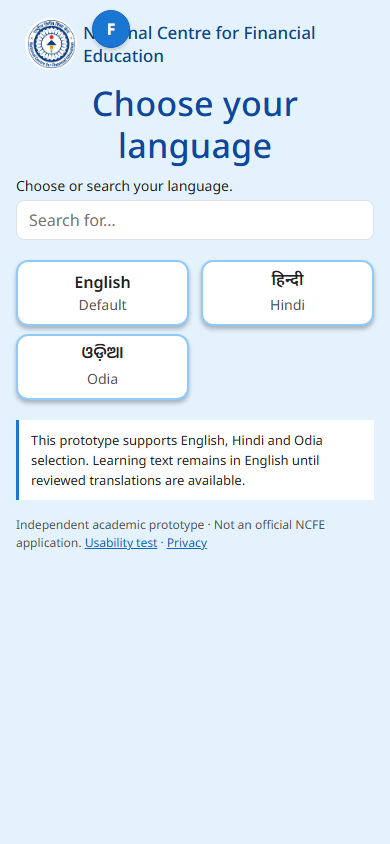
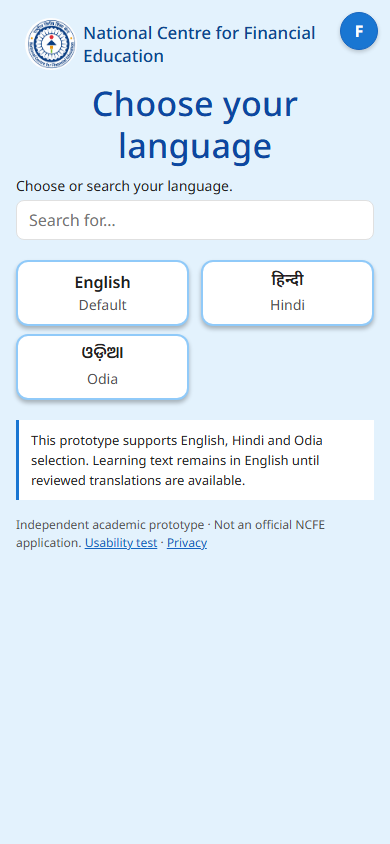
feat:registration-and-support-journeys

Changed region(s): [[0.8615, 0.0, 0.9846, 0.0616], [0.2154, 0.0, 0.3385, 0.0616]]

diff --git a/src/App.tsx b/src/App.tsx
@@ -5,11 +5,13 @@ import { Presentation } from './Presentation';
 import { Dialog, Icon, Logo, Page, PrototypeNote } from './components/UI';
 import { Onboarding } from './features/Onboarding';
 import { Announcements, Home, Textbooks, Topic, TopicsSearch, Videos } from './features/Learning';
+import { Initiatives, Programme, Registration, Review, RegistrationSuccess, LoginDemo } from './features/Initiatives';
+import { FinDisha, Help, Messages, SupportDemo } from './features/Support';
 import s from './styles/App.module.css';
 function Shell(){const app=useApp();const location=useLocation();const navigate=useNavigate();const [menu,setMenu]=useState(false);const [feedback,setFeedback]=useState(false);const main=useRef<HTMLElement>(null);const scroll=useRef<Record<string,number>>({});const onboarding=location.pathname==='/onboarding';
   useEffect(()=>{document.documentElement.lang=app.language;},[app.language]);
   useEffect(()=>{const el=main.current;if(!el)return;el.scrollTop=scroll.current[location.pathname]??0;el.querySelector<HTMLElement>('h1')?.focus({preventScroll:true});return()=>{scroll.current[location.pathname]=el.scrollTop;};},[location.pathname]);
   useEffect(()=>{const receive=(event:MessageEvent)=>{if(event.origin!==window.location.origin||event.source!==window.parent||event.data?.type!=='ncfe-wrapper')return;if(event.data.action==='back'){if((window.history.state?.idx??0)>0)navigate(-1);else navigate('/home');}if(event.data.action==='restart'){app.resetDemo();navigate('/onboarding');}};window.addEventListener('message',receive);return()=>window.removeEventListener('message',receive);},[app,navigate]);
-  return <div className={`${s.shell} ${app.dark?s.dark:''}`} lang="en"><a className={s.skipLink} href="#main-content">Skip to content</a>{!onboarding&&<header className={s.header}><Link to="/home" aria-label="NCFE prototype Home"><Logo/></Link><div className={s.headerActions}><Link className={s.iconButton} to="/learn/search" aria-label="Topics Search"><Icon name="search"/></Link><Link className={s.iconButton} to="/announcements" aria-label="Notifications"><Icon name="notification"/></Link><button className={s.iconButton} onClick={()=>setMenu(true)} aria-label="Open menu"><Icon name="menu"/></button></div></header>}<button className={s.feedbackTrigger} onClick={()=>setFeedback(true)} aria-label="Give Feedback"><span aria-hidden="true">F</span></button><main id="main-content" ref={main} className={s.main} tabIndex={-1}>{!onboarding&&<div>{app.language!=='en'&&<p className={s.notice}>{languages.find(l=>l.id===app.language)?.name} selected. Educational content is shown in English; reviewed translations are not yet available.</p>}</div>}<Routes><Route path="/" element={<Navigate to="/onboarding" replace/>}/><Route path="/onboarding" element={<Onboarding/>}/><Route path="/home" element={<Home/>}/><Route path="/announcements" element={<Announcements/>}/><Route path="/events" element={<Announcements events/>}/><Route path="/learn" element={<Navigate to="/learn/textbooks" replace/>}/><Route path="/learn/textbooks" element={<Textbooks/>}/><Route path="/learn/search" element={<TopicsSearch/>}/><Route path="/learn/videos" element={<Videos/>}/><Route path="/learn/topics/:topicId" element={<Topic/>}/><Route path="/initiatives/*" element={<Page title="Financial literacy programmes"><p>Programme journeys are being connected.</p></Page>}/><Route path="/findisha/*" element={<Page title="FinDisha"><p>Conversation demonstrations are being connected.</p></Page>}/><Route path="/help" element={<Page title="Help centre"><p>Support demonstrations are being connected.</p></Page>}/><Route path="/study" element={<Page title="Usability testing"><p>Guided tasks are being connected. No data is collected.</p></Page>}/><Route path="/privacy" element={<Page title="Prototype privacy" back><p>No live research collection is enabled.</p><PrototypeNote/></Page>}/><Route path="*" element={<Page title="Page not found" back><Link to="/home">Return Home</Link></Page>}/></Routes></main>{!onboarding&&<nav className={s.nav} aria-label="Primary navigation">{[{to:'/home',label:'Home',icon:'home'},{to:'/learn/textbooks',label:'Learn',icon:'book'},{to:'/initiatives',label:'Initiatives',icon:'initiatives'},{to:'/findisha',label:'FinDisha',icon:'chatbot'}].map(item=><NavLink key={item.to} to={item.to} aria-current={location.pathname.startsWith(item.to.split('/').slice(0,2).join('/'))?'page':undefined}><Icon name={item.icon as 'home'|'book'|'initiatives'|'chatbot'}/><span>{item.label}</span></NavLink>)}</nav>}{menu&&<Dialog title="Menu" onClose={()=>setMenu(false)}><div className={s.menu}><Link to="/findisha/messages" onClick={()=>setMenu(false)}>Messages Log</Link><Link to="/onboarding" onClick={()=>setMenu(false)}>Language</Link><button aria-pressed={app.dark} onClick={()=>app.setDark(!app.dark)}>{app.dark?'Light Mode':'Dark Mode'}</button><Link to="/help" onClick={()=>setMenu(false)}>Help</Link><Link to="/study" onClick={()=>setMenu(false)}>Usability testing</Link><Link to="/privacy" onClick={()=>setMenu(false)}>Privacy and withdrawal</Link></div><PrototypeNote/></Dialog>}{feedback&&<Dialog title="Feedback" onClose={()=>setFeedback(false)} feedback><p>The Frame 224 feedback form is being connected.</p></Dialog>}</div>;
+  return <div className={`${s.shell} ${onboarding?s.onboardShell:''} ${app.dark?s.dark:''}`} lang="en"><a className={s.skipLink} href="#main-content">Skip to content</a>{!onboarding&&<header className={s.header}><Link to="/home" aria-label="NCFE prototype Home"><Logo/></Link><div className={s.headerActions}><Link className={s.iconButton} to="/learn/search" aria-label="Topics Search"><Icon name="search"/></Link><Link className={s.iconButton} to="/announcements" aria-label="Notifications"><Icon name="notification"/></Link><button className={s.iconButton} onClick={()=>setMenu(true)} aria-label="Open menu"><Icon name="menu"/></button></div></header>}<button className={s.feedbackTrigger} onClick={()=>setFeedback(true)} aria-label="Give Feedback"><span className={s.mobileLabel} aria-hidden="true">F</span><span className={s.desktopLabel}>Feedback</span></button><main id="main-content" ref={main} className={s.main} tabIndex={-1}>{!onboarding&&<div>{app.language!=='en'&&<p className={s.notice}>{languages.find(l=>l.id===app.language)?.name} selected. Educational content is shown in English; reviewed translations are not yet available.</p>}</div>}<Routes><Route path="/" element={<Navigate to="/onboarding" replace/>}/><Route path="/onboarding" element={<Onboarding/>}/><Route path="/home" element={<Home/>}/><Route path="/announcements" element={<Announcements/>}/><Route path="/events" element={<Announcements events/>}/><Route path="/learn" element={<Navigate to="/learn/textbooks" replace/>}/><Route path="/learn/textbooks" element={<Textbooks/>}/><Route path="/learn/search" element={<TopicsSearch/>}/><Route path="/learn/videos" element={<Videos/>}/><Route path="/learn/topics/:topicId" element={<Topic/>}/><Route path="/initiatives" element={<Initiatives/>}/><Route path="/initiatives/:programmeId" element={<Programme/>}/><Route path="/initiatives/:programmeId/register" element={<Registration/>}/><Route path="/initiatives/:programmeId/review" element={<Review/>}/><Route path="/initiatives/:programmeId/success" element={<RegistrationSuccess/>}/><Route path="/account/login" element={<LoginDemo/>}/><Route path="/findisha" element={<FinDisha/>}/><Route path="/findisha/messages" element={<Messages/>}/><Route path="/help" element={<Help/>}/><Route path="/help/:channel" element={<SupportDemo/>}/><Route path="/study" element={<Page title="Usability testing"><p>Guided tasks are being connected. No data is collected.</p></Page>}/><Route path="/privacy" element={<Page title="Prototype privacy" back><p>No live research collection is enabled.</p><PrototypeNote/></Page>}/><Route path="*" element={<Page title="Page not found" back><Link to="/home">Return Home</Link></Page>}/></Routes></main>{!onboarding&&<nav className={s.nav} aria-label="Primary navigation">{[{to:'/home',label:'Home',icon:'home'},{to:'/learn/textbooks',label:'Learn',icon:'book'},{to:'/initiatives',label:'Initiatives',icon:'initiatives'},{to:'/findisha',label:'FinDisha',icon:'chatbot'}].map(item=><NavLink key={item.to} to={item.to} aria-current={location.pathname.startsWith(item.to.split('/').slice(0,2).join('/'))?'page':undefined}><Icon name={item.icon as 'home'|'book'|'initiatives'|'chatbot'}/><span>{item.label}</span></NavLink>)}</nav>}{menu&&<Dialog title="Menu" onClose={()=>setMenu(false)}><div className={s.menu}><Link to="/findisha/messages" onClick={()=>setMenu(false)}>Messages Log</Link><Link to="/onboarding" onClick={()=>setMenu(false)}>Language</Link><button aria-pressed={app.dark} onClick={()=>app.setDark(!app.dark)}>{app.dark?'Light Mode':'Dark Mode'}</button><Link to="/help" onClick={()=>setMenu(false)}>Help</Link><Link to="/study" onClick={()=>setMenu(false)}>Usability testing</Link><Link to="/privacy" onClick={()=>setMenu(false)}>Privacy and withdrawal</Link></div><PrototypeNote/></Dialog>}{feedback&&<Dialog title="Feedback" onClose={()=>setFeedback(false)} feedback><p>The Frame 224 feedback form is being connected.</p></Dialog>}</div>;
 }
 export default function App(){return <Presentation><StateProvider><Shell/></StateProvider></Presentation>;}

diff --git a/src/styles/App.module.css b/src/styles/App.module.css
@@ -1,3 +1,4 @@
 .shell{height:100dvh;position:relative;background:var(--background);color:var(--text);display:flex;flex-direction:column;overflow:hidden}.dark{--background:#0b0028;--card:#18132c;--text:#fff;--heading:#90caf9;--muted:#c8c8d2;--primary-dark:#90caf9;color-scheme:dark}.header{height:calc(var(--header) + env(safe-area-inset-top));flex:none;background:var(--card);box-shadow:0 3px 3px #0003;display:flex;align-items:center;justify-content:space-between;padding:env(safe-area-inset-top) 20px 0 30px;z-index:3}.headerActions{display:flex;align-items:center;gap:4px}.iconButton{border:0;background:transparent;min-width:44px;min-height:44px;display:inline-flex;align-items:center;justify-content:center;text-decoration:none;padding:8px}.icon{max-width:100%;max-height:32px;object-fit:contain}.logo{width:44px;height:44px;display:block;flex:none;overflow:hidden;mask-size:100% 100%;mask-repeat:no-repeat;position:relative}.logo img{position:absolute;width:180.46%;height:327.78%;max-width:none;left:-39.14%;top:-96.67%}.main{flex:1;overflow:auto;min-height:0;scrollbar-width:thin;scroll-padding-block:12px}.page{padding:14px 20px 24px;max-width:980px;margin:0 auto}.page h1{margin:2px 0 20px}.nav{flex:none;display:grid;grid-template-columns:repeat(4,1fr);height:calc(var(--nav) + env(safe-area-inset-bottom));padding-bottom:env(safe-area-inset-bottom);background:var(--card);border-top:1px solid var(--outline);z-index:3}.nav a{display:flex;flex-direction:column;align-items:center;justify-content:center;gap:3px;color:var(--muted);text-decoration:none;font-size:clamp(11px,3.4vw,14px);line-height:18px;border-top:3px solid transparent;min-width:0;padding:2px}.nav a[aria-current=page]{border-top-color:var(--secondary);color:var(--heading)}.nav .icon{height:26px}.back{border:0;background:transparent;color:var(--heading);padding:6px 0;min-height:44px;font-weight:600}.primary{border:1px solid var(--primary);background:var(--primary);color:#fff;display:inline-flex;align-items:center;justify-content:center;border-radius:10px;min-height:44px;padding:10px 18px;text-decoration:none;font-weight:500}.secondary{border:1px solid var(--secondary);color:var(--primary-dark);background:var(--card);border-radius:8px;min-height:44px;padding:10px 18px}.actions{display:flex;gap:10px;flex-wrap:wrap;margin-top:16px}.actions>*{flex:1}.card{background:var(--card);border:1px solid var(--outline);border-radius:12px;padding:16px;color:var(--text)}.card h2,.card h3{margin:0 0 10px}.card p{margin:6px 0}.grid{display:grid;grid-template-columns:repeat(auto-fit,minmax(min(100%,260px),1fr));gap:14px}.stack{display:grid;gap:14px}.muted{color:var(--muted);font-size:14px}.prototypeNote{font-size:12px;line-height:18px;color:var(--muted);margin:16px 0 6px}.notice{border-left:3px solid var(--primary);background:var(--card);padding:10px 12px;font-size:13px;line-height:20px;margin:12px 0}.studyEntry{display:flex;justify-content:space-between;align-items:center;gap:10px;margin-bottom:12px}.studyEntry a{font-size:13px}.feedbackTrigger{position:absolute;right:16px;top:68px;width:38px;height:38px;border:1px solid var(--primary-dark);border-radius:50%;background:var(--primary);color:#fff;z-index:4;font-weight:700;box-shadow:0 2px 4px #0003}.main:has(.page)>section:first-child{padding-top:16px}.main .page h1{padding-right:35px}.dialog{border:1px solid var(--outline);border-radius:12px;padding:0;background:var(--card);color:var(--text);width:min(358px,calc(100vw - 28px));max-height:calc(100dvh - 32px)}.dialogInner{padding:20px;position:relative;overflow:auto}.dialog h2{margin:10px 28px 10px 0;text-align:center}.dialog p{text-align:center;font-size:14px}.close{position:absolute;right:8px;top:6px;font-size:28px;min-height:44px;min-width:44px;border:0;background:transparent;color:inherit}.feedbackDialog{background:#fff9ee;border:8px solid #ffc334;border-radius:36px;color:#000;width:min(650px,calc(100vw - 20px));max-height:calc(100dvh - 20px);padding:0}.feedbackDialog .dialogInner{padding:28px 24px 24px}.feedbackDialog h2{text-align:left;text-transform:uppercase;font-size:24px;margin:10px 40px 18px 0}.feedbackDialog label,.feedbackDialog legend{font-weight:700}.feedbackDialog input,.feedbackDialog select,.feedbackDialog textarea{background:#fff;color:#212121;border:1.5px solid #212121}.feedbackDialog fieldset{border:0;padding:0;margin:12px 0 20px}.stars{display:flex;gap:10px;justify-content:space-between}.starOption{position:relative;display:flex;flex:1;min-height:44px;align-items:center;justify-content:center}.starOption input{position:absolute;opacity:0;width:100%;height:100%;cursor:pointer;margin:0}.starOption img{width:100%;max-width:75px;pointer-events:none}.starOption:has(input:focus-visible){outline:3px solid var(--secondary);outline-offset:4px}.desktopStage{min-height:100dvh;display:grid;place-items:center;background:#321630;padding:24px}.demoWindow{width:min(760px,100%);border-radius:36px;overflow:hidden;background:#f1e8c8;box-shadow:0 12px 40px #0005}.demoTitle{height:64px;display:flex;align-items:center;justify-content:center;position:relative;background:#1155d0;color:white}.demoTitle h1{color:inherit;font-size:28px;margin:0}.demoTitle button{position:absolute;right:22px;top:8px;background:transparent;border:0;color:#fff;font-size:38px;width:44px;height:44px}.demoBody{display:flex;align-items:flex-start;justify-content:center;gap:16px;padding:26px}.phoneFrame{height:min(780px,calc(100dvh - 170px));min-height:500px;width:calc(min(780px,100dvh - 170px) * .46);min-width:320px;max-width:407px;border:12px solid #27231e;border-radius:50px;box-shadow:0 0 0 3px #928b7b,0 14px 26px #0003;background:#fff;overflow:hidden}.phoneFrame iframe{width:100%;height:100%;border:0;display:block;background:var(--background)}.demoControls{width:140px;padding:12px 0}.demoControls button{width:100%;border:3px solid #1b1811;background:#ffc334;color:#151515;border-radius:30px;min-height:50px;font-size:20px;font-weight:600;margin:0 0 26px}.demoControls p{font-size:12px;line-height:20px;color:#3c3528}.closed{min-height:100dvh;display:flex;flex-direction:column;align-items:center;justify-content:center;gap:16px}.skipLink{position:absolute;top:-100px;left:10px;background:white;padding:10px;z-index:20}.skipLink:focus{top:10px}.menu{display:grid;gap:2px}.menu a,.menu button{padding:12px;border:0;background:transparent;text-align:left;text-decoration:none;border-bottom:1px solid var(--outline);min-height:44px}.menu a{color:var(--text)}
 @media(min-width:768px){.feedbackTrigger{width:auto;border-radius:8px;padding:0 14px;right:22px}.page{padding:20px 28px 28px}.header{padding-right:30px}.nav a{font-size:14px}.main>.page{max-width:1000px}.grid{grid-template-columns:repeat(2,minmax(0,1fr))}}@media(max-width:350px){.page{padding-inline:14px}.header{padding-inline:16px}.feedbackDialog .dialogInner{padding-inline:14px}.feedbackDialog h2{font-size:20px}.stars{gap:6px}}@media(max-height:720px) and (min-width:768px){.phoneFrame{height:560px}.desktopStage{padding:16px}.demoBody{padding:20px}.demoWindow{margin:16px 0}}
 .srOnly{position:absolute!important;width:1px!important;height:1px!important;padding:0!important;margin:-1px!important;overflow:hidden!important;clip-path:inset(50%);white-space:nowrap;border:0}.feedbackTrigger{top:10px;left:92px;right:auto}.shell:has(.onboarding) .feedbackTrigger{top:12px;right:12px;left:auto}.shell:has(.onboarding) .identity{padding-right:42px}.feedbackDialog{border-color:#ffc038}.feedbackDialog .close img{width:24px;height:24px}.header .icon{max-height:28px}.page>h1.srOnly{margin:0}.main>.page:has(>h1.srOnly){padding-top:8px}.main:has(.onboarding) .feedbackTrigger{top:12px}.dark .logo{background:white}.dark input::placeholder{color:#ccc}.feedbackTrigger .desktopLabel{display:none}@media(min-width:768px){.feedbackTrigger{left:100px;right:auto;width:auto}.feedbackTrigger .desktopLabel{display:inline}.feedbackTrigger .mobileLabel{display:none}}
+.onboardShell .feedbackTrigger{top:12px;right:12px;left:auto}

diff --git a/src/features/Initiatives.tsx b/src/features/Initiatives.tsx
@@ -1,0 +1,16 @@
+import { useState } from 'react';
+import { Link, useNavigate, useParams } from 'react-router-dom';
+import programmes from '../content/programmes.json';
+import { fieldsFor, fictionalValues, validateForm } from '../content/forms';
+import { asset } from '../content/design';
+import { ActionLink, Dialog, Page, PrototypeNote } from '../components/UI';
+import { useApp } from '../state';
+import s from '../styles/App.module.css';
+import f from '../styles/Forms.module.css';
+const names:Record<string,string>={mssp:'Money Smart School Programme',fetp:'Financial Education Training Programme',fepa:'Financial Education Programme for Adults',fact:'Financial Awareness and Consumer Training',nflat:'National Financial Literacy Assessment Test',elms:'E-LMS'};
+export function Initiatives(){return <Page title="NCFE Financial Education Initiatives"><p>Financial literacy education teaches individuals how to manage money effectively. It covers essential skills like budgeting, saving, investing, understanding credit, and making informed financial decisions.</p><div className={s.grid}>{['mssp','fetp','fepa','fact','nflat','elms'].map(id=>{const programme=programmes.find(p=>p.id===id)!;return <Link className={f.programmeCard} key={id} to={`/initiatives/${id}`}><img src={asset(programme.node.replace(':','-'),programme.hero)} alt=""/><strong>{id==='elms'?'E-LMS':id.toUpperCase()}</strong><span>{names[id]}</span></Link>;})}</div><PrototypeNote/></Page>;}
+export function Programme(){const {programmeId=''}=useParams();const programme=programmes.find(p=>p.id===programmeId);if(!programme)return <Page title="Programme not found" back><ActionLink to="/initiatives">View programmes</ActionLink></Page>;return <Page title={programmeId==='elms'?'E-LMS':programmeId.toUpperCase()} back><img className={f.hero} src={asset(programme.node.replace(':','-'),programme.hero)} alt={`${names[programmeId]} — original Figma illustration`}/><h2>{names[programmeId]}</h2><div className={f.programmeCopy}>{programme.copy.filter(p=>p!==names[programmeId]&&p!=='Request for programme').map((p,i)=><p key={i}>{p}</p>)}</div><p className={s.notice}>Programme information from the supplied Figma redesign. Registration is a fictional prototype demonstration, not an official application.</p><ActionLink to={`/initiatives/${programmeId}/register`}>{programmeId==='elms'?'Register':'Request for programme'}</ActionLink>{programmeId==='elms'&&<Link className={s.secondary} to="/account/login">Log In demonstration</Link>}<PrototypeNote/></Page>;}
+export function Registration(){const {programmeId=''}=useParams();const app=useApp();const navigate=useNavigate();const [errors,setErrors]=useState<Record<string,string>>({});if(!names[programmeId])return <Page title="Programme not found" back><ActionLink to="/initiatives">View programmes</ActionLink></Page>;const draft=app.drafts[programmeId]??{};const update=(key:string,value:string)=>{app.setDraft(programmeId,{...draft,[key]:value});if(errors[key])setErrors(previous=>{const next={...previous};delete next[key];return next;});};const submit=(e:React.FormEvent)=>{e.preventDefault();const invalid=validateForm(programmeId,draft);setErrors(invalid);const first=Object.keys(invalid)[0];if(first){document.getElementById(`field-${first}`)?.focus();return;}navigate(`/initiatives/${programmeId}/review`);};return <Page title={programmeId==='elms'?'E-LMS':programmeId.toUpperCase()} back><h2>{programmeId==='elms'?'Create your learning account':names[programmeId]}</h2><p className={s.notice}>Use fictional information only. These fields stay in this browser session and are never uploaded. {['fetp','elms'].includes(programmeId)?'':'This additional form is a prototype demonstration.'}</p><button className={s.secondary} onClick={()=>{app.setDraft(programmeId,{...fictionalValues});setErrors({});}}>Use fictional test details</button><form noValidate onSubmit={submit} className={f.form}>{Object.keys(errors).length>0&&<div role="alert" className={f.errorSummary}>Please correct the highlighted fields.</div>}{fieldsFor(programmeId).map(field=><div className={f.field} key={field.key}><label htmlFor={`field-${field.key}`}>{field.label} <span className={f.required} aria-hidden="true">*</span></label><input id={`field-${field.key}`} type={field.type??'text'} value={draft[field.key]??''} onChange={e=>update(field.key,e.target.value)} placeholder={field.label} autoComplete="off" required aria-invalid={!!errors[field.key]} aria-describedby={[field.hint?`hint-${field.key}`:'',errors[field.key]?`error-${field.key}`:''].filter(Boolean).join(' ')||undefined} className={draft[field.key]?f.filled:undefined}/>{field.hint&&<p id={`hint-${field.key}`} className={s.muted}>{field.hint}</p>}{errors[field.key]&&<p className={f.error} id={`error-${field.key}`}>{errors[field.key]}</p>}</div>)}<p className={s.muted}>Fields marked * are required.</p><button className={s.primary} type="submit">{programmeId==='elms'?'Review account':'Review request'}</button></form><PrototypeNote/></Page>;}
+export function Review(){const {programmeId=''}=useParams();const app=useApp();const navigate=useNavigate();const [confirm,setConfirm]=useState(false);const [busy,setBusy]=useState(false);const draft=app.drafts[programmeId]??{};const invalid=validateForm(programmeId,draft);if(!names[programmeId]||Object.keys(invalid).length)return <Page title="Registration review" back><p>Complete the demonstration form before reviewing.</p><ActionLink to={`/initiatives/${names[programmeId]?programmeId:'fetp'}/register`}>Return to registration</ActionLink></Page>;const submit=async()=>{if(busy)return;setBusy(true);await new Promise(resolve=>setTimeout(resolve,250));navigate(`/initiatives/${programmeId}/success`);};return <Page title="Registration" back><h2>Check your details</h2><p>Please check the information you provided.</p><p className={s.notice}>Fictional demonstration only. No registration data will be sent.</p><dl className={f.review}>{fieldsFor(programmeId).filter(field=>field.type!=='password').map(field=><div key={field.key}><dt>{field.label}</dt><dd>{draft[field.key]}</dd></div>)}</dl><div className={s.actions}><button className={s.primary} onClick={()=>setConfirm(true)}>Submit request</button><ActionLink to={`/initiatives/${programmeId}/register`}>Edit details</ActionLink></div>{confirm&&<Dialog title="Submit your registration?" onClose={()=>{if(!busy)setConfirm(false);}}><p>Review your details before submitting.</p><p>Prototype demonstration. Nothing is sent to NCFE.</p><div className={s.actions}><button className={s.primary} disabled={busy} onClick={()=>void submit()}>{busy?'Submitting demonstration…':'Submit'}</button><button className={s.secondary} disabled={busy} onClick={()=>setConfirm(false)}>Cancel</button></div></Dialog>}<PrototypeNote/></Page>;}
+export function RegistrationSuccess(){const {programmeId='fetp'}=useParams();return <Page title="Demonstration completed" back><div className={s.card}><h2>Thank you</h2><p>Your fictional registration journey is complete. No application was submitted to NCFE and no identity information was collected.</p><ActionLink to={`/initiatives/${programmeId}`}>Return to programme</ActionLink></div><PrototypeNote/></Page>;}
+export function LoginDemo(){const [done,setDone]=useState(false);return <Page title="E-LMS Log In" back><p className={s.notice}>No real account or password is needed. This is a demonstration.</p>{done?<div className={s.card}><h2>Demo account opened</h2><ActionLink to="/learn/textbooks">Open learning</ActionLink></div>:<button className={s.primary} onClick={()=>setDone(true)}>Use fictional demo account</button>}</Page>;}

diff --git a/src/features/Support.tsx b/src/features/Support.tsx
@@ -1,0 +1,28 @@
+import { useState } from 'react';
+import { Link, useParams } from 'react-router-dom';
+import { Page, PrototypeNote } from '../components/UI';
+import { asset } from '../content/design';
+import { useApp } from '../state';
+import s from '../styles/App.module.css';
+import c from '../styles/Support.module.css';
+
+const options = [
+  {id:'phone',title:'Phone Support',detail:'Voice support demonstration'},
+  {id:'chat',title:'Live Chat',detail:'Text support · Simulated conversation'},
+  {id:'email',title:'Email Support',detail:'Written support demonstration'},
+  {id:'walk',title:'Walk-in Centre',detail:'In-person support demonstration'},
+];
+const helpTopics = [
+  {title:'E-LMS account',text:'How do I register, log in or reset my password?',to:'/initiatives/elms'},
+  {title:'NCFE programmes',text:'How can a school or institution request a programme?',to:'/initiatives'},
+  {title:'Using FinDisha',text:'How do I ask a question or review previous messages?',to:'/findisha'},
+  {title:'Language & accessibility',text:'How can I change the app language?',to:'/onboarding'},
+  {title:'Safety and privacy',text:'What information does this prototype collect?',to:'/privacy'},
+];
+export function Help(){return <Page title="Help centre" back><p className={s.muted}>How would you like to get help?</p><h2 className={c.caption}>POPULAR HELP TOPICS</h2><div className={s.stack}><div className={c.helpCard}><h3>Getting started</h3><Link to="/learn/textbooks">Where can I find lessons and videos?</Link><div>{options.map(option=><Link key={option.id} to={`/help/${option.id}`} className={c.supportRow}><span className={c.iconTile}><img src={asset('support',option.id)} alt=""/></span><span><strong>{option.title}</strong><small>{option.detail}</small></span><img className={c.chevron} src={asset('21-5218','imgChevron')} alt=""/></Link>)}</div><Link to="/help/email">File a complaint about this portal · Demonstration</Link></div>{helpTopics.map(topic=><Link key={topic.title} className={c.helpCard} to={topic.to}><strong>{topic.title}</strong><span>{topic.text}</span><small>Tap to view guidance ›</small></Link>)}<h2>Still need help?</h2><Link className={c.helpCard} to="/findisha"><strong>Ask FinDisha</strong><span>Start a simulated conversation about your question.</span><small>Open chat ›</small></Link></div><PrototypeNote/></Page>;}
+
+export function FinDisha(){const app=useApp();const [text,setText]=useState('');const send=(event:React.FormEvent)=>{event.preventDefault();if(!text.trim())return;app.setMessages([...app.messages,{id:crypto.randomUUID(),from:'user',text:text.trim()},{id:crypto.randomUUID(),from:'demo',text:'Simulated response: this prototype can help you find learning pages and programme demonstrations. No official financial advice is provided.'}]);setText('');};return <Page title="Ask FinDisha"><div className={c.greeting}><p>Hi there!<br/>How can we help?</p><span className={c.hand} aria-hidden="true"><img src={asset('200-14368','imgVector')} alt=""/><img style={{maskImage:`url(${asset('200-14368','imgGroup')})`}} src={asset('200-14368','imgGroup1')} alt=""/><img style={{maskImage:`url(${asset('200-14368','imgGroup')})`}} src={asset('200-14368','imgGroup2')} alt=""/></span></div><div className={c.bubble}><strong>FinDisha · Prototype assistant</strong><p>Hello there! This is a simulated Financial Literacy Assistant demonstration.</p></div><p className={s.notice}>Simulated responses. No official financial advice. Messages remain in memory and are not saved to Firebase. Use fictional information.</p><Link className={c.helpCard} to="/help"><strong>Help & support</strong><span>Find a non-voice support option ›</span></Link><p className={s.muted}>Ask it out</p><div role="log" aria-label="Simulated conversation" aria-live="polite" className={c.messages}>{app.messages.map(message=><div className={`${c.bubble} ${message.from==='user'?c.user:''}`} key={message.id}><strong>{message.from==='user'?'You':'FinDisha · Simulated'}</strong><p>{message.text}</p></div>)}</div><form onSubmit={send} className={c.composer}><label className={s.srOnly} htmlFor="chat-message">Type your message</label><input id="chat-message" value={text} maxLength={500} onChange={event=>setText(event.target.value)} placeholder="Type your message" autoComplete="off"/><button type="submit" disabled={!text.trim()} aria-label="Send message"><img src={asset('200-14368','imgIcon')} alt=""/></button></form><Link to="/findisha/messages">Messages Log</Link><PrototypeNote/></Page>;}
+
+export function Messages(){const app=useApp();return <Page title="Messages Log" back>{app.messages.length?<div className={s.stack}>{app.messages.map(message=><div className={c.bubble} key={message.id}><strong>{message.from==='user'?'You':'FinDisha · Simulated'}</strong><p>{message.text}</p></div>)}</div>:<div className={c.helpCard}><h2>No conversations yet</h2><p>Conversation examples will appear here during this browser session.</p></div>}<Link className={s.primary} to="/findisha">Ask FinDisha</Link><PrototypeNote/></Page>;}
+
+export function SupportDemo(){const {channel='chat'}=useParams();const option=options.find(item=>item.id===channel);const [message,setMessage]=useState('');const [sent,setSent]=useState(false);if(!option)return <Page title="Support option not found" back><Link to="/help">Help centre</Link></Page>;return <Page title={option.title} back><p className={s.notice}>Prototype demonstration. This does not contact NCFE or send messages to a support team.</p>{channel==='phone'||channel==='walk'?<div className={c.helpCard}><h2>{channel==='phone'?'Helpline placeholder':'Support centre placeholder'}</h2><p>Contact details and service availability are not verified in this independent prototype.</p><Link to="/help/chat">Use non-voice text support</Link></div>:<form onSubmit={event=>{event.preventDefault();setSent(true);}} className={c.supportForm}><label htmlFor="support-text">Your fictional question</label><textarea id="support-text" value={message} maxLength={500} onChange={event=>{setMessage(event.target.value);setSent(false);}} placeholder="Example: Where can I find a lesson?"/><button className={s.primary} disabled={!message.trim()} type="submit">{channel==='email'?'Send email demonstration':'Send message demonstration'}</button>{sent&&<div role="status" className={c.bubble}><strong>Simulated response</strong><p>Your demonstration message was received on this screen. Nothing was sent or saved. <Link to="/learn/textbooks">Open learning pages</Link>.</p></div>}</form>}<PrototypeNote/></Page>;}

diff --git a/tests/journeys.spec.ts b/tests/journeys.spec.ts
@@ -1,0 +1,49 @@
+import {test,expect} from '@playwright/test';
+test.beforeEach(async({page})=>{await page.setViewportSize({width:390,height:844});});
+for(const programme of ['fetp','elms']){
+ test(`${programme}: validation, preservation, review cancellation and submission`,async({page})=>{
+  await page.goto(`?view=app#/initiatives/${programme}/register`);
+  await page.getByRole('button',{name:programme==='elms'?'Review account':'Review request',exact:true}).click();
+  await expect(page.getByRole('alert')).toBeVisible();
+  await expect(page.locator('input[aria-invalid=true]').first()).toBeFocused();
+  await page.getByRole('button',{name:'Use fictional test details'}).click();
+  const before=await page.locator('input').first().inputValue();
+  await page.getByRole('button',{name:programme==='elms'?'Review account':'Review request',exact:true}).click();
+  await page.getByRole('link',{name:'Edit details'}).click();
+  await expect(page.locator('input').first()).toHaveValue(before);
+  await page.getByRole('button',{name:programme==='elms'?'Review account':'Review request',exact:true}).click();
+  await page.getByRole('button',{name:'Submit request'}).click();
+  await page.getByRole('button',{name:'Cancel',exact:true}).click();
+  await expect(page.getByRole('dialog')).not.toBeVisible();
+  await page.getByRole('button',{name:'Submit request'}).click();
+  await page.getByRole('button',{name:'Submit',exact:true}).click();
+  await expect(page.getByRole('heading',{name:'Demonstration completed'})).toBeVisible();
+ });
+}
+test('all programmes and non-voice support have working destinations',async({page})=>{
+ for(const id of ['mssp','fetp','fepa','fact','nflat','elms']){
+  await page.goto('?view=app#/initiatives');
+  await page.locator(`a[href="#/initiatives/${id}"]`).click();
+  await expect(page.getByRole('heading',{name:id==='elms'?'E-LMS':id.toUpperCase(),exact:true,level:1})).toBeVisible();
+ }
+ await page.goto('?view=app#/findisha');
+ await page.getByRole('link',{name:/Help & support/}).click();
+ await page.getByRole('link',{name:/Live Chat/}).click();
+ await page.getByRole('textbox',{name:'Your fictional question'}).fill('Where are the lessons?');
+ await page.getByRole('button',{name:'Send message demonstration'}).click();
+ await expect(page.getByRole('status')).toContainText('Nothing was sent or saved');
+});
+test('FinDisha conversation persists across navigation',async({page})=>{
+ await page.goto('?view=app#/findisha');
+ await page.getByRole('textbox',{name:'Type your message'}).fill('Bank accounts');
+ await page.getByRole('button',{name:'Send message',exact:true}).click();
+ await expect(page.getByRole('log')).toContainText('Simulated response');
+ await page.getByRole('link',{name:'Messages Log',exact:true}).click();
+ await expect(page.getByText('Bank accounts',{exact:true})).toBeVisible();
+ await page.getByRole('button',{name:'Go back'}).click();
+ await expect(page.getByRole('log')).toContainText('Bank accounts');
+});
+test('capture registration and help evidence',async({page})=>{
+ await page.goto('?view=app#/initiatives/fetp/register');await page.screenshot({path:'docs/screenshots/phase-4-fetp.png'});
+ await page.goto('?view=app#/help');await page.screenshot({path:'docs/screenshots/phase-5-help.png'});
+});

diff --git a/src/styles/Forms.module.css b/src/styles/Forms.module.css
@@ -1,0 +1,1 @@
+.form{display:grid;gap:12px;margin:18px 0}.field label{display:block;font-size:16px;font-weight:500;line-height:22px;margin-bottom:6px}.required{color:var(--error)}.field input,.field select,.field textarea{background:var(--card);color:var(--text);border:1px solid #aac2dd;border-radius:9px;width:100%;min-height:47px;padding:12px;font-size:14px}.field input::placeholder{color:#65778b}.field input[aria-invalid=true],.field textarea[aria-invalid=true],.field select[aria-invalid=true]{border:2px solid var(--error)}.field input:focus{border-color:var(--primary)}.field .filled{border-color:#7394ba}.field p{margin:6px 0 0;font-size:14px;line-height:22px}.error,.errorSummary{color:var(--error);font-size:14px}.errorSummary{border-left:3px solid var(--error);padding:10px;background:var(--card)}.form>button[type=submit]{border-radius:24px;width:100%}.review{margin:18px 0;padding:16px;border:1px solid var(--outline);border-radius:12px;background:var(--card)}.review>div{padding:8px 0;border-bottom:1px solid var(--outline)}.review>div:last-child{border:0}.review dt{font-size:14px;color:var(--muted)}.review dd{margin:4px 0;overflow-wrap:anywhere}.hero{width:100%;max-height:230px;object-fit:contain;border-radius:8px;background:var(--card)}.programmeCopy{font-size:16px;line-height:24px}.programmeCard{border:1px solid var(--outline);background:var(--card);border-radius:12px;padding:14px;text-decoration:none;display:flex;flex-direction:column;align-items:center;text-align:center;gap:8px;color:var(--heading);box-shadow:0 2px 3px #0002}.programmeCard img{width:100%;height:120px;object-fit:contain}.programmeCard strong{font-size:24px}.programmeCard span{font-size:14px}.field textarea{resize:vertical;min-height:130px}.field select{appearance:auto}.difficulty{display:flex;gap:8px;flex-wrap:wrap}.difficulty label{display:flex;gap:4px;align-items:center;min-height:44px}.taskPanel{border-top:2px solid var(--primary);padding:12px 16px;background:var(--card);flex:none;max-height:45dvh;overflow:auto}.taskPanel h2{margin:0 0 8px;font-size:16px}.taskPanel p{font-size:14px;margin:6px 0}.taskPanel .actions{margin-top:8px}.taskPanel button{font-size:13px}.status{padding:12px;border:1px solid var(--outline);border-radius:8px;background:var(--card);font-size:14px}

diff --git a/src/components/UI.tsx b/src/components/UI.tsx
@@ -1,4 +1,4 @@
-import { useEffect, useRef, type ReactNode } from 'react';
+import { useEffect, useId, useRef, type ReactNode } from 'react';
 import { Link, useNavigate } from 'react-router-dom';
 import { asset, icons, type IconName } from '../content/design';
 import s from '../styles/App.module.css';
@@ -8,9 +8,10 @@ export function Back({fallback='/home'}:{fallback?:string}) {const navigate=useN
 export function Page({title,children,back=false}:{title:string;children:ReactNode;back?:boolean}){return <section className={s.page}>{back&&<Back/>}<h1 className={title==='Home'?s.srOnly:undefined} tabIndex={-1}>{title}</h1>{children}</section>;}
 export function ActionLink({to,children}:{to:string;children:ReactNode}){return <Link className={s.primary} to={to}>{children}</Link>;}
 export function Dialog({title,children,onClose,feedback=false}:{title:string;children:ReactNode;onClose:()=>void;feedback?:boolean}){
+  const titleId=useId();
   const ref=useRef<HTMLDialogElement>(null);
   const closeRef=useRef(onClose);closeRef.current=onClose;
   useEffect(()=>{const dialog=ref.current;if(!dialog)return;const previous=document.activeElement as HTMLElement|null;dialog.showModal();return()=>{dialog.close();previous?.focus();};},[]);
-  return <dialog ref={ref} className={feedback?s.feedbackDialog:s.dialog} aria-labelledby="dialog-title" onCancel={event=>{event.preventDefault();closeRef.current();}}><div className={s.dialogInner}><button className={s.close} aria-label="Close dialog" onClick={onClose}>×</button><h2 id="dialog-title">{title}</h2>{children}</div></dialog>;
+  return <dialog ref={ref} className={feedback?s.feedbackDialog:s.dialog} aria-labelledby={titleId} onCancel={event=>{event.preventDefault();closeRef.current();}}><div className={s.dialogInner}><button className={s.close} aria-label="Close dialog" onClick={onClose}>{feedback?<img src={asset('295-16869','imgVector')} alt=""/>:'×'}</button><h2 id={titleId}>{title}</h2>{children}</div></dialog>;
 }
 export function PrototypeNote(){return <p className={s.prototypeNote}>Independent academic prototype · Not an official NCFE application. <Link to="/study">Usability test</Link> · <Link to="/privacy">Privacy</Link></p>;}

diff --git a/src/content/forms.ts b/src/content/forms.ts
@@ -1,0 +1,9 @@
+export type Field = {key:string;label:string;type?:'email'|'tel'|'password';hint?:string};
+export const formFields:Record<string,Field[]>={
+  fetp:[{key:'name',label:"Teacher's full name"},{key:'school',label:'School / Institution'},{key:'role',label:'Teaching role'},{key:'location',label:'State and district'},{key:'email',label:'Work email',type:'email'},{key:'phone',label:'Contact number',type:'tel'}],
+  elms:[{key:'firstName',label:'First name'},{key:'surname',label:'Surname'},{key:'phone',label:'Phone number',type:'tel'},{key:'location',label:'State / Union Territory'},{key:'username',label:'Username'},{key:'email',label:'Email address',type:'email'},{key:'password',label:'Password',type:'password',hint:'Password: 8+ characters, mixed case, number and symbol.'}]
+};
+export const otherFields:Field[]=[{key:'name',label:'Fictional contact name'},{key:'school',label:'Fictional institution'},{key:'location',label:'State and district'},{key:'email',label:'Fictional email',type:'email'}];
+export function fieldsFor(id:string){return formFields[id]??otherFields;}
+export function validateForm(id:string,values:Record<string,string>){const errors:Record<string,string>={};for(const field of fieldsFor(id)){const value=values[field.key]?.trim()??'';if(!value)errors[field.key]=`${field.label} is required.`;else if(field.type==='email'&&!/^[^\s@]+@[^\s@]+\.[^\s@]+$/.test(value))errors[field.key]='Enter a valid fictional email address, such as teacher@example.com.';else if(field.type==='tel'&&value.replace(/\D/g,'').length<10)errors[field.key]='Enter a fictional contact number with at least 10 digits.';else if(field.type==='password'&&(!/[a-z]/.test(value)||!/[A-Z]/.test(value)||!/[0-9]/.test(value)||!/[\W_]/.test(value)||value.length<8))errors[field.key]='Use at least 8 characters with mixed case, a number and a symbol. Use a demonstration password only.';}return errors;}
+export const fictionalValues:Record<string,string>={name:'Demo Teacher',school:'Example School',role:'Demo educator',location:'Odisha · Demonstration district',email:'teacher@example.com',phone:'0000000000',firstName:'Demo',surname:'Learner',username:'demo_learner',password:'DemoOnly1!'};

diff --git a/src/styles/Support.module.css b/src/styles/Support.module.css
@@ -1,0 +1,1 @@
+.caption{font-size:14px;color:var(--muted);margin:20px 0 14px}.helpCard{display:flex;flex-direction:column;gap:6px;background:var(--card);border:1px solid #c7d9f0;border-radius:14px;padding:12px 15px;color:var(--text);text-decoration:none}.helpCard h3{color:var(--heading);margin:0}.helpCard strong{font-size:15px;color:var(--heading)}.helpCard small{color:var(--muted);font-size:14px}.supportRow{display:flex;align-items:center;gap:12px;text-decoration:none;color:var(--text);border-bottom:1px solid #e0e0e0;padding:12px 0;min-height:80px}.supportRow>span:nth-child(2){flex:1;min-width:0}.supportRow small{display:block;margin-top:6px}.iconTile{border:1px solid var(--outline);border-radius:50%;background:#1976d21f;width:40px;height:40px;flex:none;display:grid;place-items:center}.iconTile img{max-width:24px;max-height:24px}.chevron{max-width:8px}.greeting{display:flex;gap:14px;align-items:flex-start;min-height:110px}.greeting p{color:var(--heading);font-size:20px;line-height:28px;margin:20px 0}.hand{position:relative;width:57px;height:57px;display:block;margin-top:12px}.hand img{position:absolute;inset:3% 6% 3% 13%;width:81%;height:94%;mask-size:100% 100%}.bubble{padding:14px 15px;background:var(--card);border:1px solid var(--outline);border-radius:16px 16px 16px 0;box-shadow:0 4px 8px #0001;margin-bottom:12px;overflow-wrap:anywhere}.bubble strong{font-size:15px;color:var(--heading)}.bubble p{margin:8px 0 0}.user{margin-left:24px;background:var(--background);border-radius:16px 16px 0 16px}.messages{margin:16px 0}.composer{display:flex;align-items:center;border:1px solid #0003;background:var(--card);border-radius:999px;padding:2px 8px 2px 16px;gap:8px;margin:20px 0 14px;position:sticky;bottom:0}.composer input{flex:1;min-width:0;border:0;background:transparent;color:var(--text);min-height:48px}.composer button{border:0;background:transparent;min-width:48px;min-height:48px;display:grid;place-items:center}.composer button img{max-width:32px;max-height:32px;transform:rotate(-90deg)}.supportForm{display:grid;gap:12px}.supportForm textarea{min-height:150px;border:1px solid var(--outline);border-radius:10px;padding:12px;background:var(--card);color:var(--text)}

diff --git a/tests/validation.test.ts b/tests/validation.test.ts
@@ -1,0 +1,7 @@
+import {describe,it,expect} from 'vitest';
+import {validateForm,fictionalValues} from '../src/content/forms';
+describe('registration validation',()=>{
+ it('requires every FETP field',()=>expect(Object.keys(validateForm('fetp',{}))).toHaveLength(6));
+ it('accepts fictional test data for both representative journeys',()=>{expect(validateForm('fetp',fictionalValues)).toEqual({});expect(validateForm('elms',fictionalValues)).toEqual({});});
+ it('rejects invalid email and weak demo password',()=>{const errors=validateForm('elms',{...fictionalValues,email:'invalid',password:'short'});expect(errors.email).toContain('fictional email');expect(errors.password).toContain('8 characters');});
+});

diff --git a/docs/firebase-security.md b/docs/firebase-security.md
@@ -1,0 +1,21 @@
+# Firebase configuration and research protection
+
+The local Firebase web configuration belongs in `.env.local`, which Git ignores. `.env.example` contains empty key/app-ID placeholders. Production build values belong in GitHub Actions secrets, not source files, screenshots, logs, or workflow literals. Never upload Firebase Admin SDK service-account credentials to this frontend repository.
+
+Firebase web API keys identify the project and are public by design. Vite variables prefixed with `VITE_` are embedded in the browser bundle. GitHub secrets keep these values out of source and build logs; they do not make the deployed web key confidential. Access to participant records must be enforced by Firebase Authentication and Firestore Security Rules. See [Firebase API-key guidance](https://firebase.google.com/docs/projects/api-keys).
+
+Analytics is not initialized; the supplied measurement ID is not used. Research collection remains disabled with `VITE_RESEARCH_ENABLED=false` until consent/privacy settings are agreed, Anonymous Authentication is enabled, Firestore is available, and database rules have passed access-control tests and been deployed.
+
+The initial database availability check returned HTTP 403 because the Cloud Firestore API has not been used in this project or is disabled. No participant records were created by that check.
+
+Before enabling research:
+
+- Create Firestore in production mode and select an appropriate data region.
+- Enable Anonymous Authentication; do not request participants' email addresses or passwords.
+- Enforce ownership and schema validation for each anonymous session; deny public queries and access to other sessions. Keep researcher access under Google Cloud IAM.
+- Verify consent, withdrawal, retention and the study contact in the interface.
+- Retain each response for 90 days after submission, as agreed by the study owner. Configure and verify automatic expiry before enabling collection.
+- Restrict the browser key to the Firebase APIs used by this app; review App Check and quotas before public recruitment.
+- Keep all registration demonstration values and simulated conversations out of the research database.
+
+Run `node scripts/check-repository-secrets.mjs` before committing. This checks tracked files without printing matched credentials. It complements GitHub secret scanning; it is not a complete secret detector.
